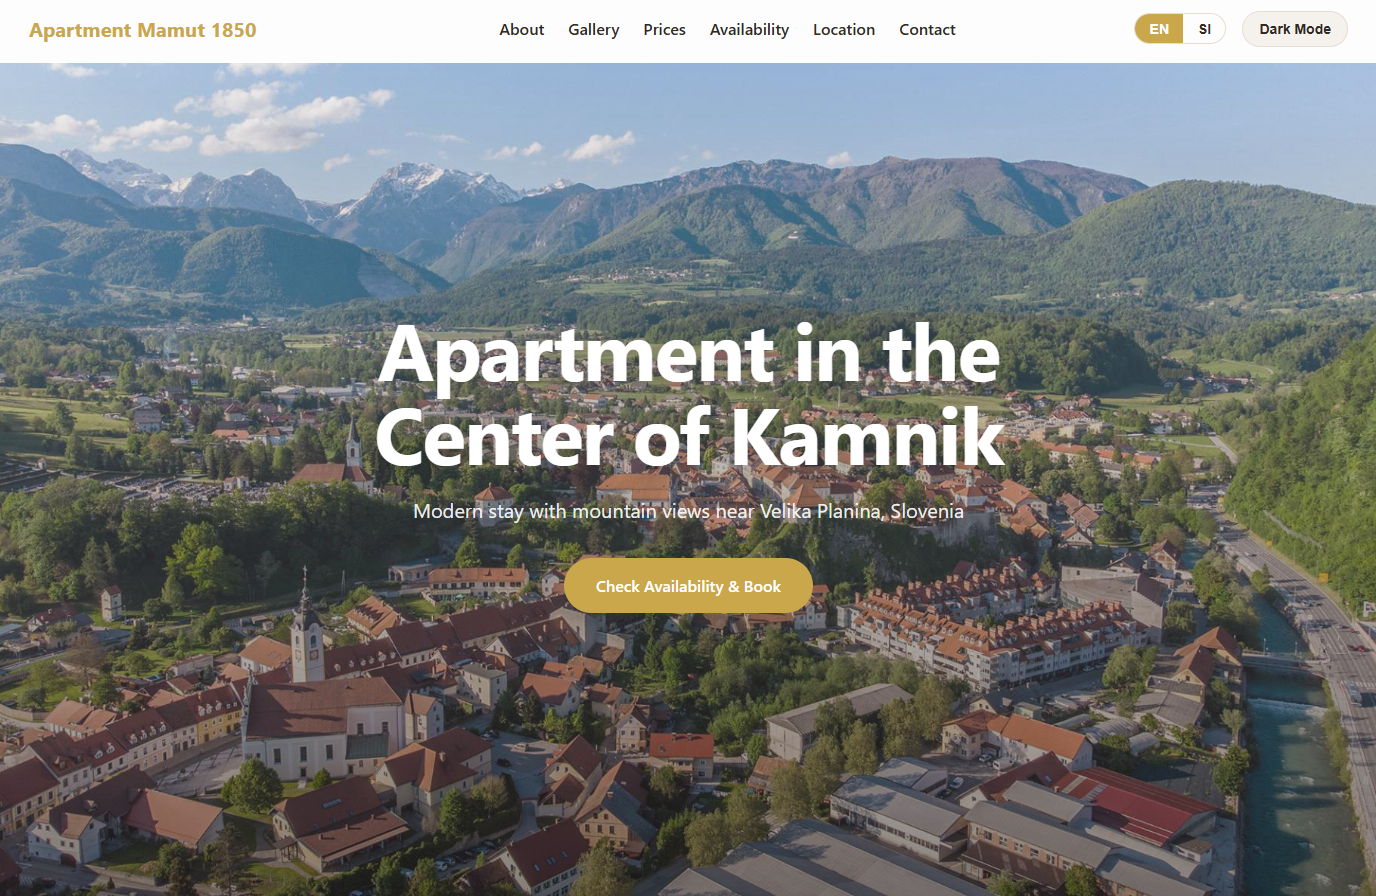
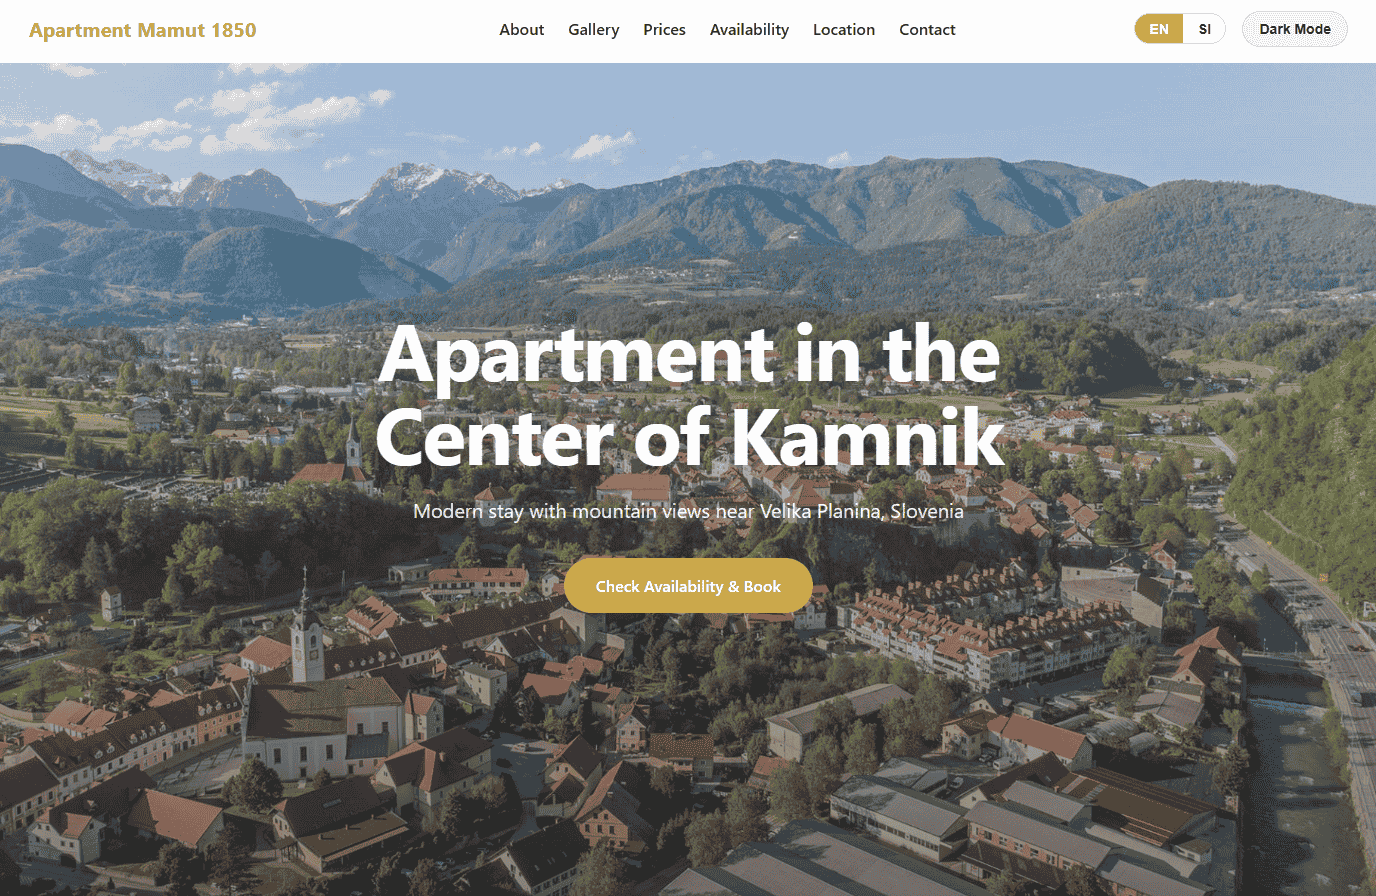
euchamp is behind, new project undergoing

diff --git a/src/data/races.js b/src/data/races.js
@@ -40,15 +40,6 @@ export const achievements = [
 
 export const upcomingRaces = [
   {
-    nameKey: 'racePage.races.euChamp_26',
-    date: '7. June 2026',
-    distance: '13 km',
-    elevation: '850 m',
-    image: '/images/velka01.jpg',
-    imageAlt: 'racePage.alts.euChamp_26',
-    link: 'https://www.offroadrunning2026.si/',
-  },
-  {
     nameKey: 'racePage.races.soca_26',
     date: '26. June 2026',
     distance: '25 km + Vertikal',
@@ -78,6 +69,17 @@ export const upcomingRaces = [
 ]
 
 export const completedRaces = [
+  {
+    nameKey: 'racePage.races.euChamp_26',
+    year: '7. June 2026',
+    distance: '13 km',
+    elevation: '870 m',
+    time: '1:15:40',
+    image: '/images/velka01.jpg',
+    imageAlt: 'racePage.alts.euChamp_26',
+    link: 'https://www.strava.com/activities/18825099708',
+    noteKey: 'racePage.notes.euChamp_26',
+  },
   {
     nameKey: 'racePage.races.utvv_26',
     year: '25. april 2026',

diff --git a/src/data/projects.js b/src/data/projects.js
@@ -44,9 +44,10 @@ export const projects = [
   },
 
   {
-    title: 'projectsPage.done.mapPoster.title',
-    description: 'projectsPage.done.mapPoster.description',
-    image: '/images/mapsite-img.png',
-    imageAlt: 'projectsPage.alts.mapPoster'
+    title: 'projectsPage.done.tpok.title',
+    description: 'projectsPage.done.tpok.description',
+    image: '/images/tpok-site.png',
+    imageAlt: 'projectsPage.alts.tpok',
+    link: 'https://pokal-kamnik.netlify.app'
   },
 ]

diff --git a/src/components/race_components/RacesUpcoming.vue b/src/components/race_components/RacesUpcoming.vue
@@ -13,11 +13,11 @@
 
         <div class="slider-controls">
             <button @click="scrollLeft" class="slider-btn">
-            ←
+            <
             </button>
 
             <button @click="scrollRight" class="slider-btn">
-            →
+            >
             </button>
         </div>
         </div>
